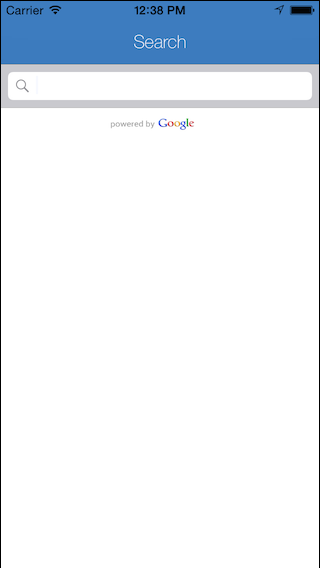
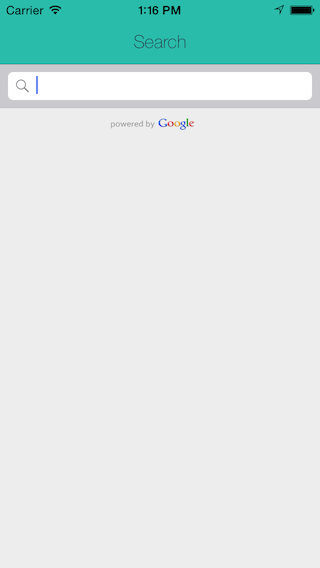
Final

Changed region(s): [[0.0, 0.0, 1.0, 0.1796]]

diff --git a/GooglePlacesAutocomplete/SearchViewController.m b/GooglePlacesAutocomplete/SearchViewController.m
@@ -42,7 +42,7 @@ typedef NS_ENUM(NSUInteger, TableViewSection){
     self.searchTextField.searchBarStyle = UISearchBarStyleProminent;
     
     [self.navigationController.navigationBar setTitleTextAttributes:[NSDictionary dictionaryWithObjectsAndKeys:
-                                                                     [UIColor whiteColor], NSForegroundColorAttributeName,
+                                                                     [UIColor colorWithRed:0.157 green:0.220 blue:0.294 alpha:1.000], NSForegroundColorAttributeName,
                                                                      [UIFont fontWithName:@"HelveticaNeue-Thin" size:18.0], NSFontAttributeName, nil]];
 
     
